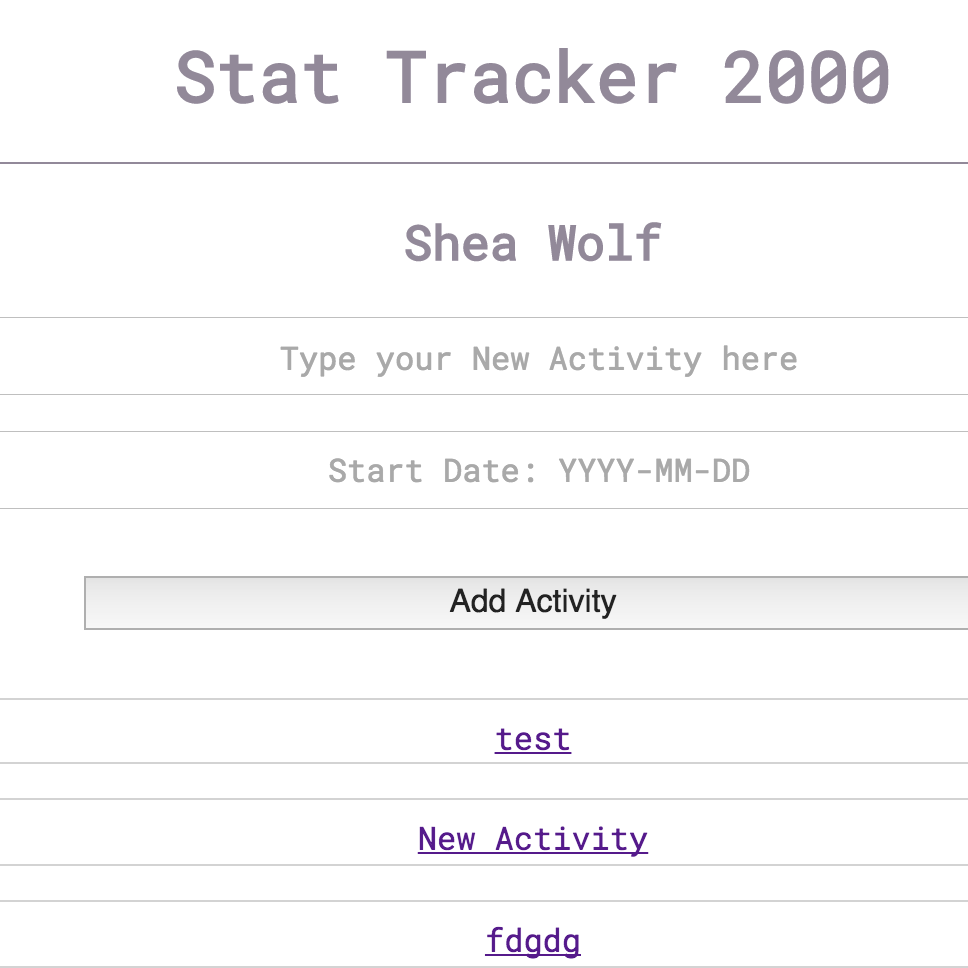
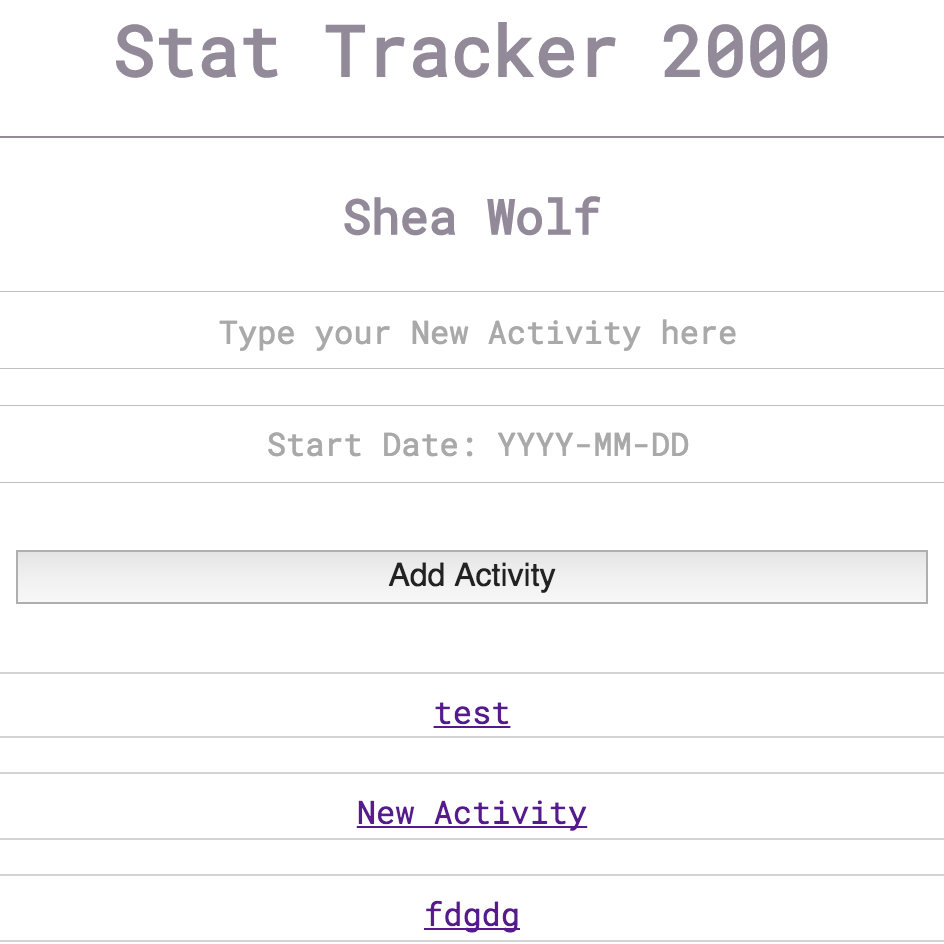
fixing margins and img for responsive

diff --git a/src/css/main.css b/src/css/main.css
@@ -275,9 +275,9 @@ a:hover {
   font-size: 3em;
   font-weight: 400;
   color: mediumseagreen;
-  width: 50%;
-  margin-left: 25%;
-  margin-right: 25%;
+  width: 80%;
+  margin-left: 10%;
+  margin-right: 10%;
   margin-bottom: 7%;
   text-align: center; }
 
@@ -292,7 +292,8 @@ a:hover {
     width: 90%;
     margin-left: 5%;
     margin-right: 5%;
-    margin-top: 0; } }
+    margin-top: 0;
+    margin-bottom: 5%; } }
 
 .contact {
   width: 80%;

diff --git a/src/scss/_portfolio.scss b/src/scss/_portfolio.scss
@@ -61,9 +61,9 @@
   font-size: 3em;
   font-weight: 400;
   color: $green;
-  width: 50%;
-  margin-left:25%;
-  margin-right: 25%;
+  width: 80%;
+  margin-left:10%;
+  margin-right: 10%;
   margin-bottom: 7%;
   text-align: center;
 }
@@ -84,6 +84,7 @@
         margin-left: 5%;
         margin-right: 5%;
         margin-top: 0;
+        margin-bottom: 5%;
       }
     }
   }
